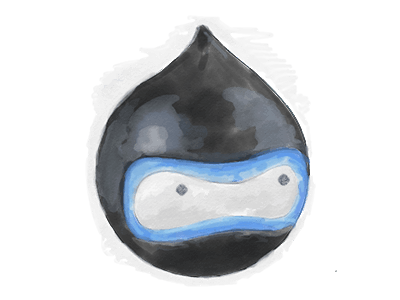
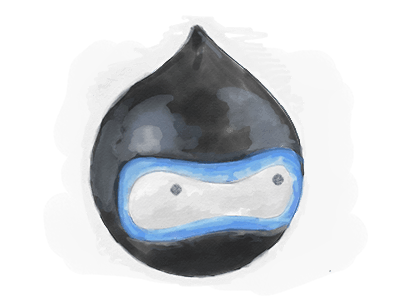
updating illustrations so that they're centered and have more consistent backgrounds

diff --git a/public/index.html b/public/index.html
@@ -176,7 +176,7 @@
       <ul class="cards">
         <li>
           <h3>Berklee College of Music: Overview</h3>
-          <img src="images/screenshots/berklee-homepage-feb-12-2016.png"
+          <img src="images/screenshots/berklee-homepage-march-2016.jpg"
                class="pannable"
                data-height="300px" />
           <p>As chief web designer and senior front-end developer, I spearheaded a comprehensive design and
